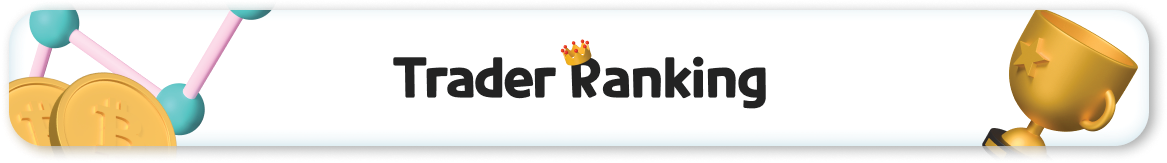
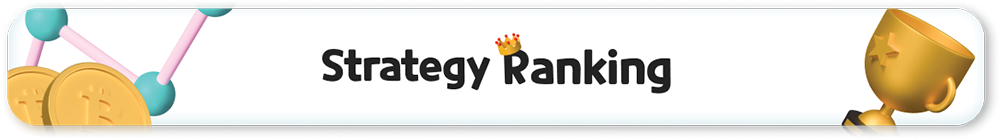
Add files via upload

diff --git a/playv-run-03/index.css b/playv-run-03/index.css
@@ -6,7 +6,7 @@ body {
   font-family: -apple-system, Arial, Helvetica, sans-serif;
 }
 
-.app{
+.app {
   margin-left: 10%;
   margin-right: 10%;
   padding-top: 5%;
@@ -104,21 +104,20 @@ ol {
   margin-top: 10em;
   margin-bottom: 10em;
 }
-.dates{
-  width:45%;
+.dates {
+  width: 45%;
 }
 
 .datesblock1 {
   visibility: visible;
   margin-top: 5%;
-  display:flex;
+  display: flex;
   justify-content: space-between;
 }
 .datesblock2 {
   visibility: hidden;
   margin-top: 5%;
 }
-
 
 .prizepool {
   padding-top: 5%;
@@ -166,16 +165,16 @@ ol {
   justify-self: center;
   width: 100%;
   margin-top: 5%;
-  background-color: #0098db; /* Green */
+  /* background-color: #0098db; */
   border: none;
   color: #fff;
-  padding: 1em 1em;
-  text-align: center;
-  text-decoration: none;
-  font-size: 16px;
-  border-radius: 0.5em;
-  font-size: 1.5em;
-  box-shadow: -5px -5px 20px white, 5px 5px 20px #babecc;
+  /* padding: 1em 1em; */
+  /* text-align: center; */
+  /* text-decoration: none; */
+  /* font-size: 16px; */
+  /* border-radius: 0.5em; */
+  /* font-size: 1.5em; */
+  /* box-shadow: -5px -5px 20px white, 5px 5px 20px #babecc; */
 }
 
 table,
@@ -207,9 +206,8 @@ hr {
 
 .score {
   background-color: #565656;
-  color: #fff
+  color: #fff;
 }
-
 
 @media only screen and (min-width: 600px) {
   .datesblock2 {
@@ -236,7 +234,7 @@ hr {
     line-height: 1.7em;
     margin-left: 0em;
   }
-  .indent{
+  .indent {
     margin-left: 1em;
   }
 
@@ -259,13 +257,11 @@ hr {
   }
   ul {
     margin-left: 0em;
-    
   }
   ol {
     margin-left: 0em;
-    
   }
-  li{
+  li {
     font-size: 1em;
   }
   .caption {
@@ -289,13 +285,7 @@ hr {
     padding: 1em 1em;
   }
 
-  .buttonlong{
-    width: 85%; 
-    display:block; 
-    margin-top: 5%;"
-  }
-
-  .dates{
+  .dates {
     width: 100%;
     margin-top: 5%;
   }
@@ -304,7 +294,7 @@ hr {
   }
   .datesblock2 {
     visibility: visible;
-    width:100%;
+    width: 100%;
   }
 
   hr {

diff --git a/playv-run-03/index.html b/playv-run-03/index.html
@@ -26,7 +26,7 @@
           <img class="dates" src="img/contInfo.png" />
         </div>
         
-        <a class="buttonlong" href="https://support.playv.co/hc/en-us/sections/4412930905359--PlayV-Run-the-1st-trading-contest">Strategy Ranking</a>
+        <a class="buttonlong" href="https://support.playv.co/hc/en-us/sections/4412930905359--PlayV-Run-the-1st-trading-contest"><img src="img/buttonRank.png" width="100%"></a>
       </div>
 
       <div class="rules">
